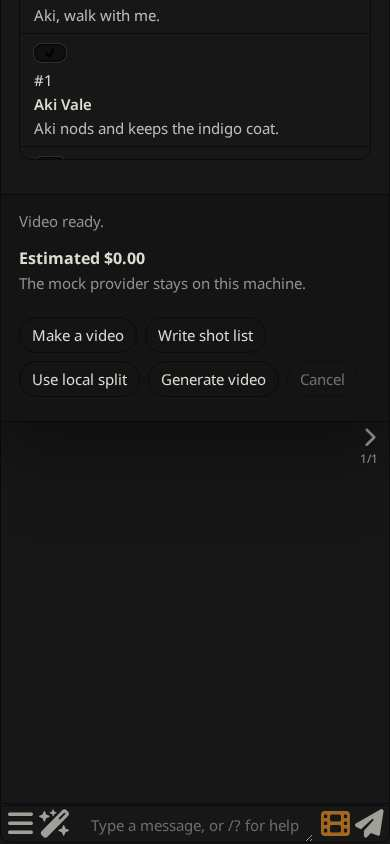
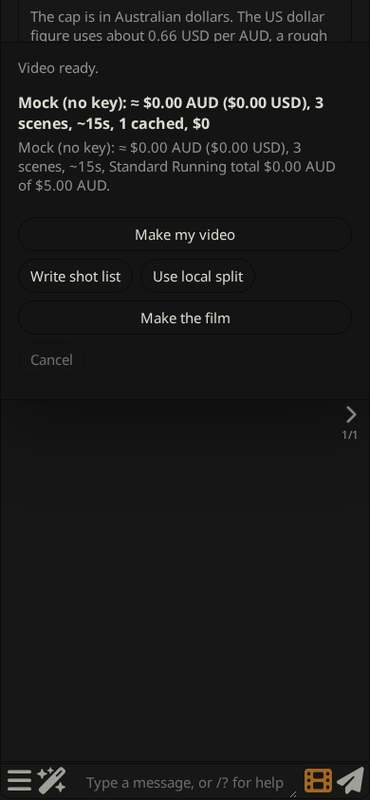
Accept a one-scene export label and refresh screenshots.
A chat that fits in one scene says Generate video once that scene is ticked. The group mix still says Make the film. Docs shots now show Sera Voss and the solo result.

diff --git a/e2e/sillytavern.spec.js b/e2e/sillytavern.spec.js
@@ -214,7 +214,8 @@ test('SillyTavern 1.19 one-to-one Make my video exports a file', async ({ page }
     await page.evaluate(async (fileName) => {
         await globalThis.SillyTavern.getContext().openCharacterChat(fileName);
     }, chatFile);
-    await expect(page.locator('#chat .mes').nth(1)).toContainText('Walk with me', { timeout: 30000 });
+    await expect(page.locator('#chat')).toContainText('Walk with me', { timeout: 30000 });
+    await expect(page.locator('#chat')).toContainText('keeps the coat closed');
 
     await page.locator('#stsv-send-btn').click();
     await expect(page.locator('#stsv-cost')).toContainText('AUD');
@@ -247,7 +248,7 @@ test('SillyTavern 1.19 one-to-one Make my video exports a file', async ({ page }
     await expect(page.locator('#stsv-status')).toContainText('Animatic ready', { timeout: 120000 });
     await page.locator('[data-step-jump="story"]').click();
     await page.locator('.stsv-shot').first().locator('[data-field="asVideo"]').check();
-    await expect(page.locator('#stsv-generate')).toHaveText('Make the film');
+    await expect(page.locator('#stsv-generate')).toHaveText(/Make the film|Generate video/);
     await page.locator('#stsv-generate').click();
     await expect(page.locator('#stsv-status')).toContainText(/Video ready|Clip ready|Stopped/, { timeout: 120000 });
     await expect(page.locator('#stsv-download')).toBeVisible();
